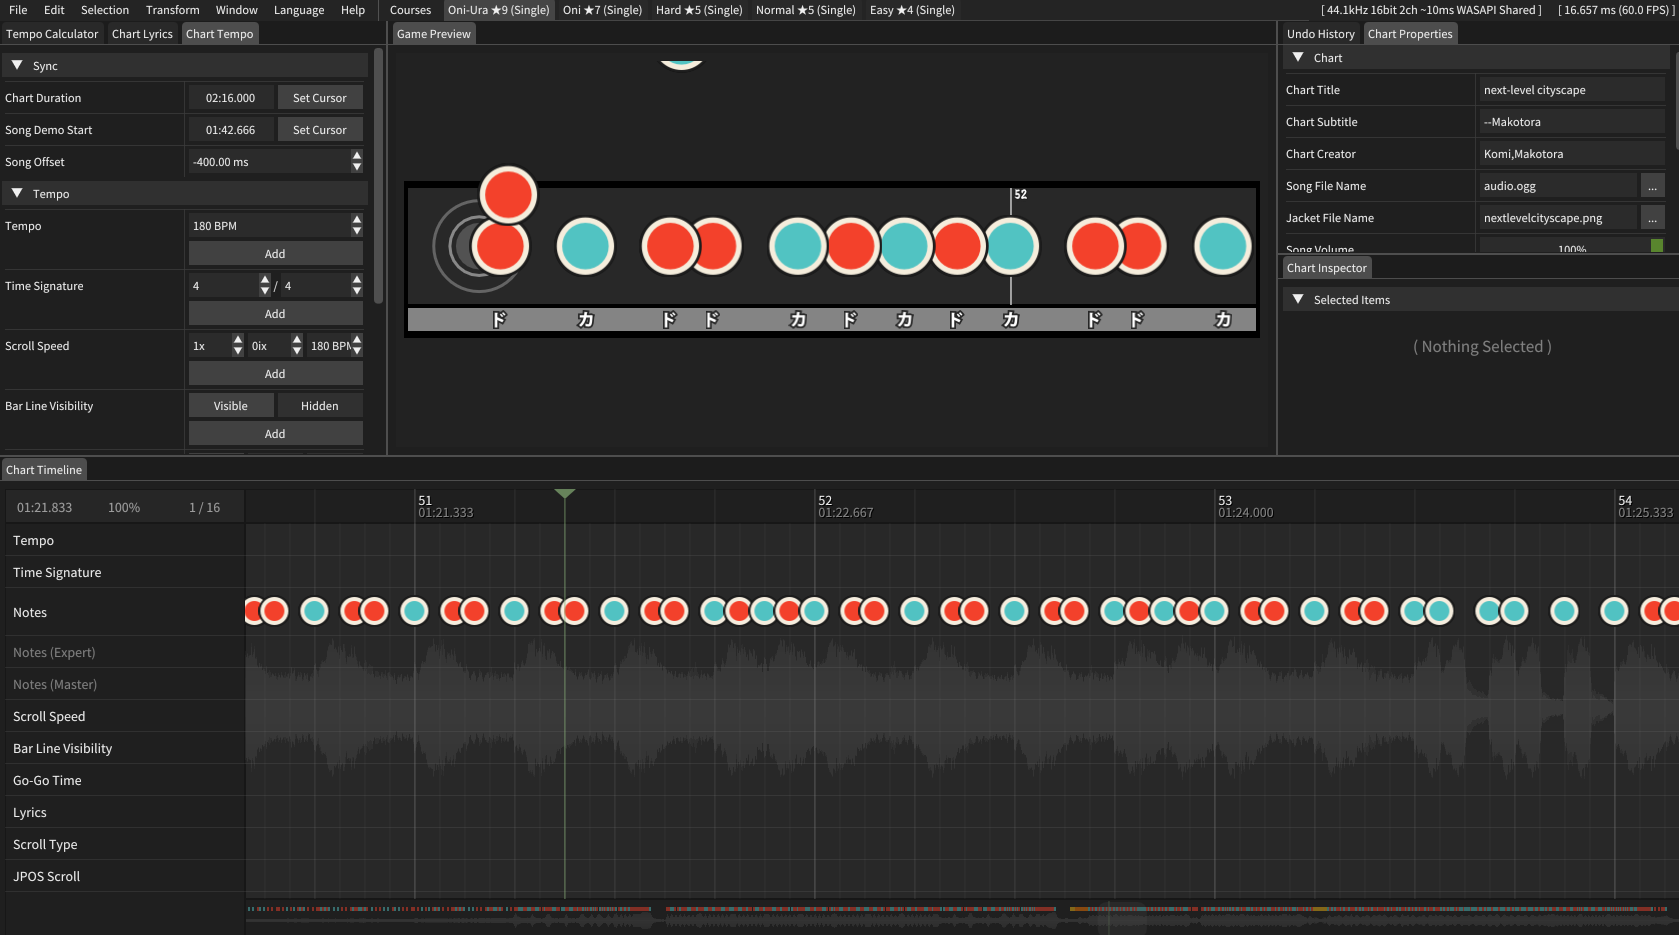
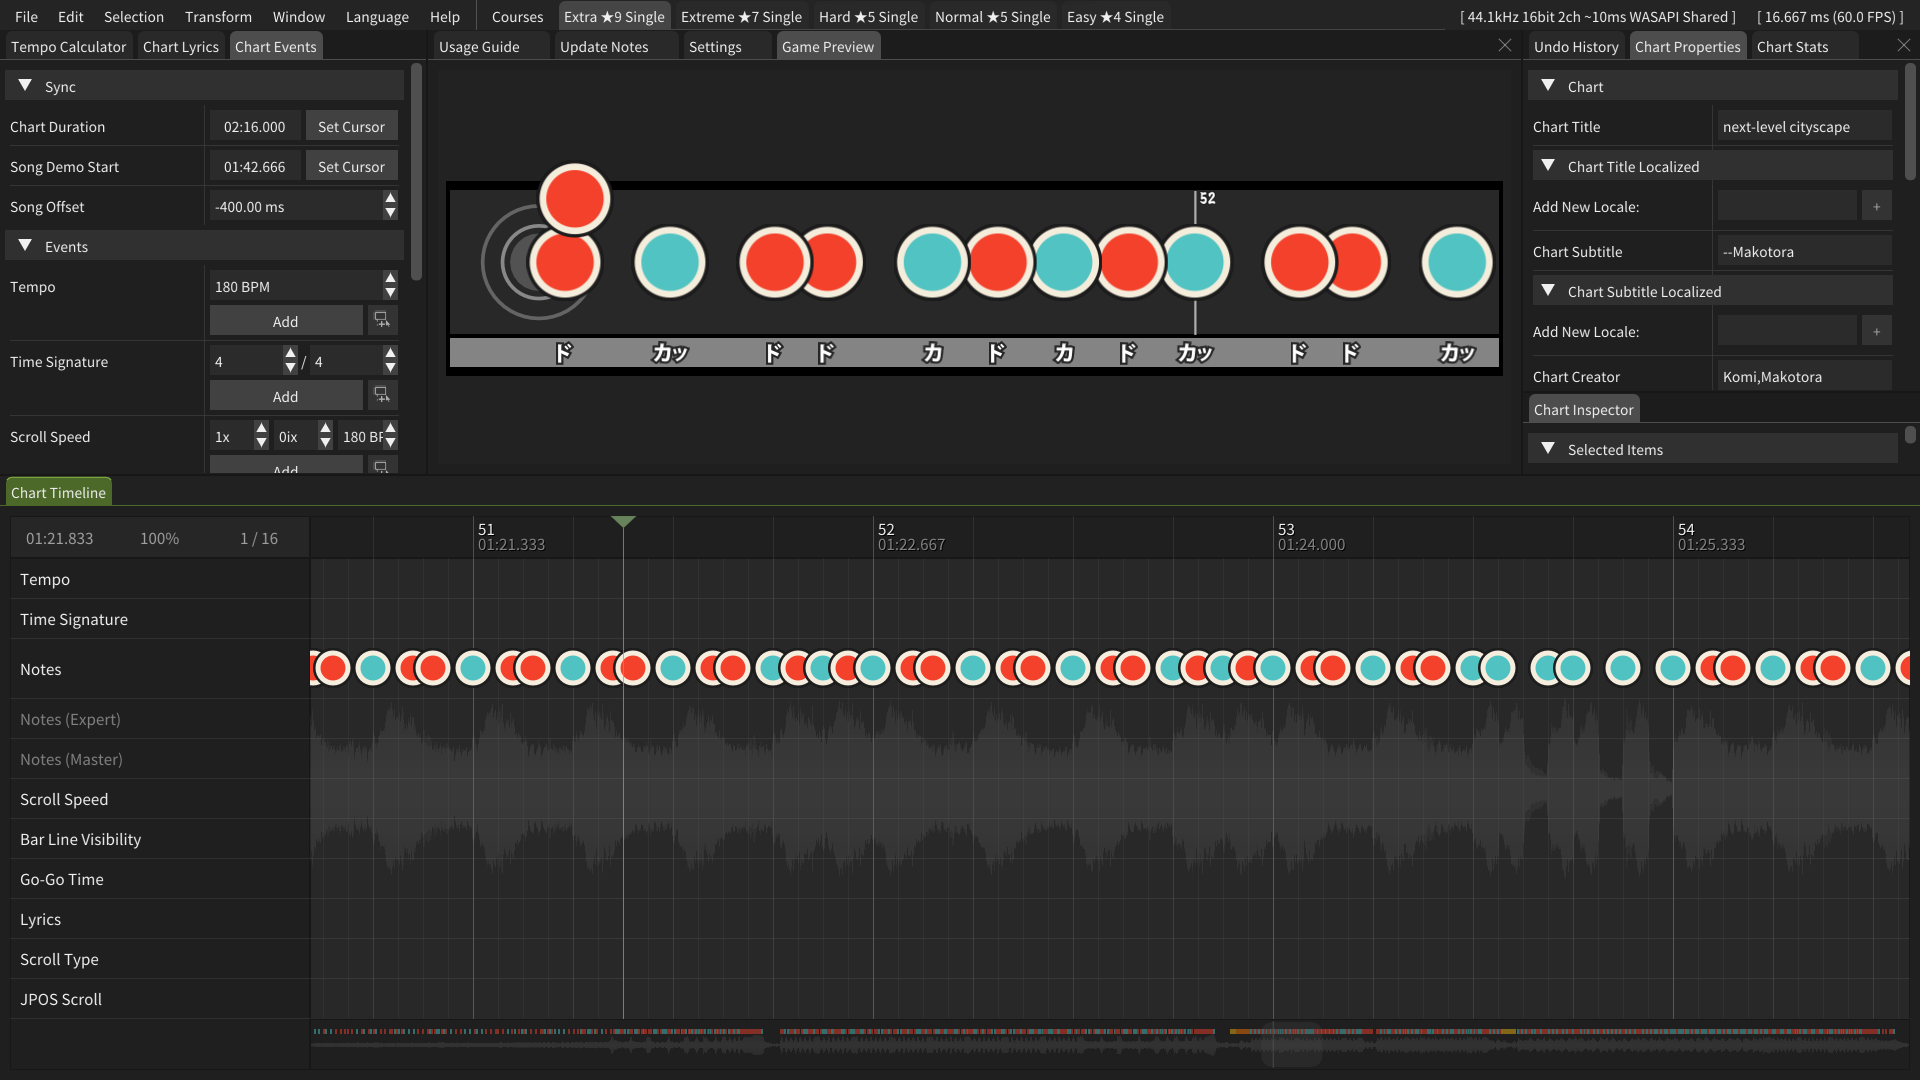
[Enhance] Retake tool screenshots and refine description

diff --git a/src/lib/pages/ToolsTab.svelte b/src/lib/pages/ToolsTab.svelte
@@ -8,10 +8,13 @@
 
     // Tools
     import ToolCard from '$lib/components/ToolCard.svelte';
+    import peepoSamyuuScreenshotUrl from '$lib/peepoSamyuu.png';
     import peepoScreenshotUrl from '$lib/peepo.png';
     import arrowScreenshotUrl from '$lib/arrow.png';
     import tjatoolsScreenshotUrl from '$lib/tjatools.png';
 	import subeditScreenshotUrl from '$lib/subedit.png';
+	import songSubmissionScreenshotUrl from '$lib/songsubmission.png';
+	import songSuggestionScreenshotUrl from '$lib/songsuggestion.png';
 
     let currentTab = 0;
 	let optk_OS = "Win";
@@ -66,15 +69,15 @@
 			<div class="w-full text-token grid grid-cols-2 md:grid-cols-2 gap-4">	
 				<ToolCard 
 					Url="https://drive.google.com/uc?export=download&id=1TQuvKo1tBZrXZIMlUMJ3-1vU1jfsxI2H"
-					ImageSrc={peepoScreenshotUrl}
-					CardSubtitle={$_('tools.card.peepo_official.subtitle')}
-					CardText={$_('tools.card.peepo_official.text')}
+					ImageSrc={peepoSamyuuScreenshotUrl}
+					CardSubtitle={$_('tools.card.peepo_origin.subtitle')}
+					CardText={$_('tools.card.peepo_origin.text')}
 				/>
 				<ToolCard
 					Url="https://github.com/0auBSQ/PeepoDrumKit/releases/latest"
 					ImageSrc={peepoScreenshotUrl}
-					CardSubtitle={$_('tools.card.peepo_unofficial.subtitle')}
-					CardText={$_('tools.card.peepo_unofficial.text')}
+					CardSubtitle={$_('tools.card.peepo_optk.subtitle')}
+					CardText={$_('tools.card.peepo_optk.text')}
 				/>
 			</div>
 		{/if}
@@ -121,14 +124,14 @@
 		<div class="w-full text-token grid grid-cols-1 md:grid-cols-2 gap-4">
 			<ToolCard
 				Url="https://forms.gle/WXNUwjJyLdJoeRSM6"
-				ImageSrc={peepoScreenshotUrl}
+				ImageSrc={songSubmissionScreenshotUrl}
 				CardTitle={$_('tools.card.submission.title')}
 				CardSubtitle={$_('tools.card.submission.subtitle')}
 				CardText={$_('tools.card.submission.text')}
 			/>
 			<ToolCard
 				Url="https://forms.gle/1HbDtS7FtJDNfhUb7"
-				ImageSrc={peepoScreenshotUrl}
+				ImageSrc={songSuggestionScreenshotUrl}
 				CardTitle={$_('tools.card.suggestion.title')}
 				CardSubtitle={$_('tools.card.suggestion.subtitle')}
 				CardText={$_('tools.card.suggestion.text')}
